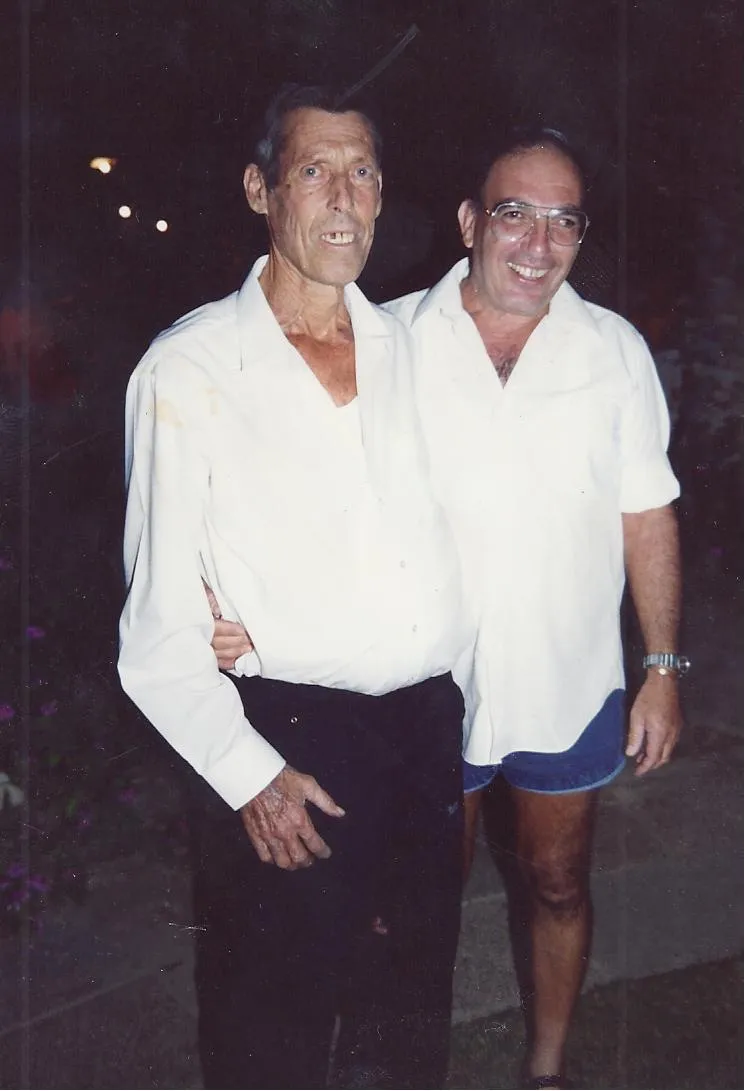
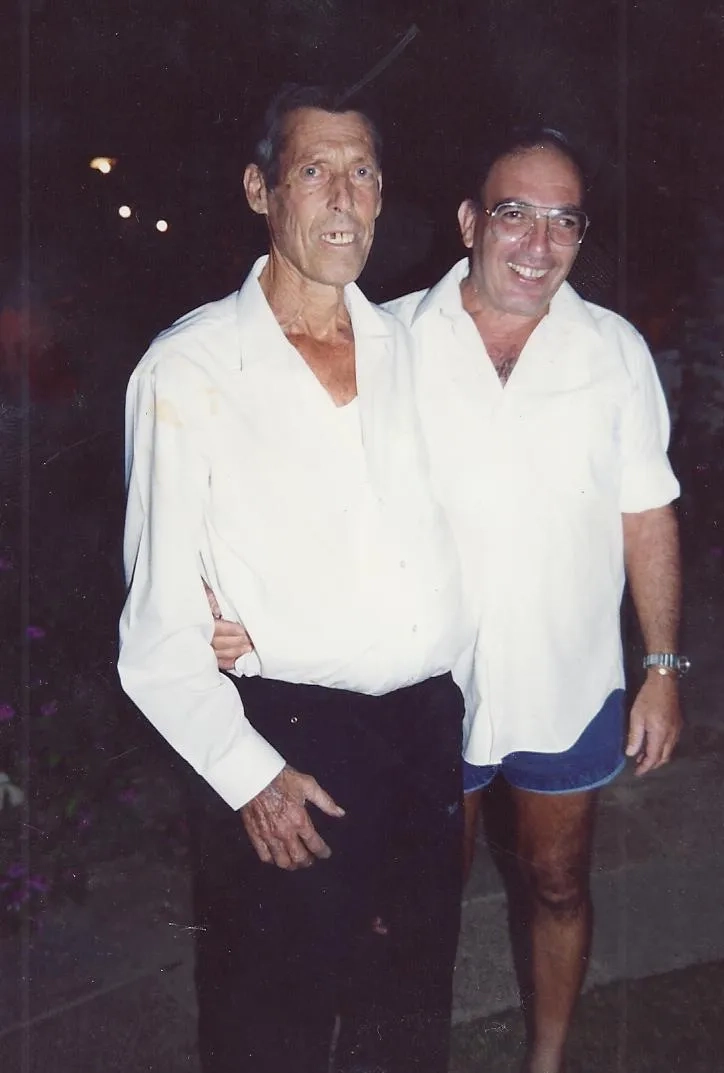
Replace shai-hagi-ziv-wedding photo with new version

diff --git a/images/gallery/gallery-data.js b/images/gallery/gallery-data.js
@@ -60,7 +60,7 @@ window.galleryPhotos = [
 
   // משפחה וזיכרון
   { file: "meirka-moshav-event.webp", caption: "מאירקה באירוע במושב" },
-  { file: "shai-hagi-ziv-wedding.webp", caption: "שי וחגי בחתונת זיו" },
+  { file: "shai-hagi-ziv-wedding.webp", v: 2, caption: "שי וחגי בחתונת זיו" },
   { file: "dudu-ben-eliyahu.webp", caption: "דודו בן אליהו" },
   { file: "hadas-ben-eliyahu.webp", caption: "הדס בן אליהו" },
   { file: "omri-concert-2009.webp", caption: "בקונצרט של עמרי, יולי 2009" },

diff --git a/gallery.html b/gallery.html
@@ -73,7 +73,7 @@
     <div class="photog reveal-stagger" id="galleryGrid"></div>
   </div>
 
-  <script src="images/gallery/gallery-data.js?v=43"></script>
+  <script src="images/gallery/gallery-data.js?v=44"></script>
   <script>
     (function(){
       var photos = window.galleryPhotos || [];
